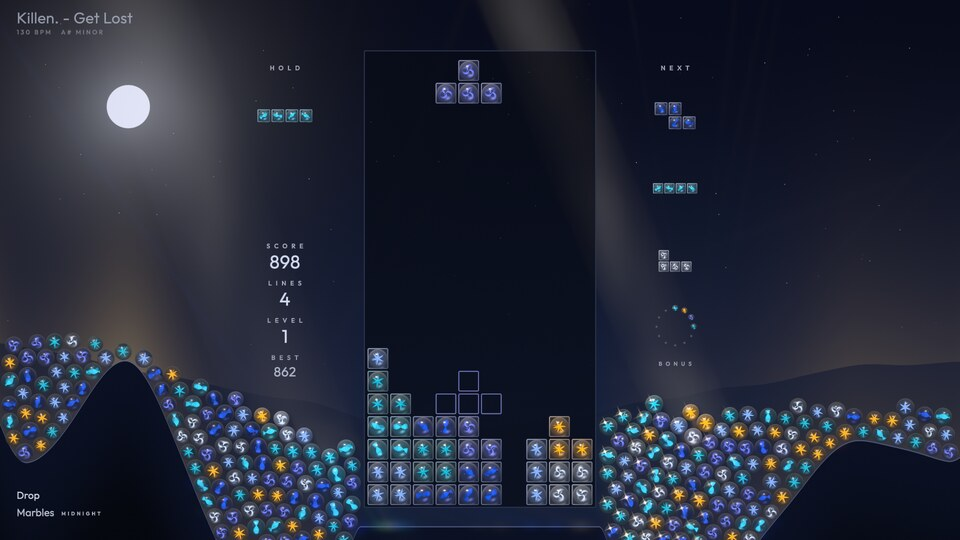
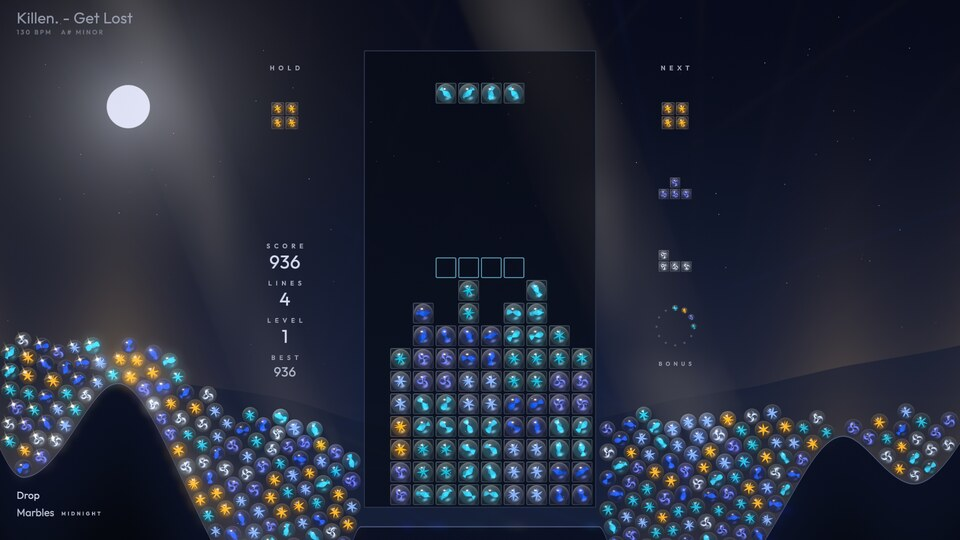
MARBLES: night variants only (MIDNIGHT, SEA GLASS, OBSIDIAN: the light reads there; DUSK, PORCELAIN, NOON dropped); fainter glass boxes, the hairline barely there
Claude-Session: https://claude.ai/code/session_01DBPtRFs6M8Q4o53Qj6BCRE

diff --git a/src/universes/marbles/marbles.cpp b/src/universes/marbles/marbles.cpp
@@ -105,16 +105,6 @@ const VariantDef VARIANTS[] = {
      0xdfe6ff, 0xffd27a, 0xffe6b0, 0x040818, 0xe8ecff,
      {0x62c8e8, 0xf0b54a, 0x7a86f0, 0x3fa8c0, 0x2f55c8, 0xcfdcf5, 0x8fb0f0},
      0.35f, 0.16f, 0.84f, -15.5f, 7.6f, 0.95f, 1.f, 1.f, 0.f, 1.f},
-    // Dusk: a plum sky warming to apricot over aubergine hills, a low sun; the drop's light is rose gold.
-    {"DUSK", 0x241a40, 0xd08468, 0x8a5e70, 0x5e4262, 0x26182c, 0x120a16, 0xffb08a, 0x1a1224, 0x5a4060, 0xf0c0b0,
-     0xfff0e6, 0xffc88a, 0xffd8b8, 0x120e30, 0xffe2b0,
-     {0xe8a07a, 0xf6c66a, 0xc77a9a, 0xf0c8a0, 0xb8506a, 0x8a5a9a, 0x4fb8b0},
-     0.30f, 0.15f, 0.80f, 15.5f, -1.2f, 1.7f, 1.f, 0.f, 0.f, 1.f},
-    // Porcelain: a cool white studio sky over pale grey hills, saturated marbles; the drop's light is white.
-    {"PORCELAIN", 0xdfe3e8, 0xf4f5f6, 0xe4e7eb, 0xd2d8df, 0xb4bcc8, 0x949eac, 0xffffff, 0xf7f8fa, 0xc4cad2, 0xffffff,
-     0x262c34, 0x1f4fd0, 0xffffff, 0x1a2236, 0xffffff,
-     {0x5aa0e0, 0x1f3f9a, 0x6a5ab8, 0x3a8a9a, 0xc8323a, 0x2a62c8, 0x8aa0b8},
-     0.42f, 0.42f, 0.86f, 0.f, 0.f, 0.f, 0.f, 0.f, 1.f, 0.55f},
     // Sea glass: a misty teal night, a pale moon in the fog, pastel sea-glass marbles; the drop's light is cyan white.
     {"SEA GLASS", 0x0a1e24, 0x2a5056, 0x355a60, 0x1a363c, 0x0a1a1e, 0x040c0e, 0x7ac0c0, 0x08161a, 0x3a5a5e, 0xbfe8e8,
      0xe0f4f2, 0xa8fff0, 0xd8fff8, 0x061418, 0xd8f0f0,
@@ -125,11 +115,6 @@ const VariantDef VARIANTS[] = {
      0xe8e8ee, 0xffffff, 0xffffff, 0x04060e, 0xffffff,
      {0xd8e4f0, 0xff8a2a, 0x9a9aa8, 0x6a7a88, 0xff3a2a, 0x8a9ab0, 0xffc84a},
      0.25f, 0.08f, 0.88f, 0.f, 0.f, 0.f, 0.f, 0.25f, 0.f, 1.f},
-    // Noon: a blue sky over slate hills, a white sun; the drop's light is white.
-    {"NOON", 0x86aed6, 0xe2ebf2, 0xc4d4e2, 0xa4b8cc, 0x687c92, 0x48586a, 0xf4f8fc, 0xf0f4f8, 0xb0bccb, 0xffffff,
-     0x22303e, 0xe85a2a, 0xffffff, 0x182238, 0xfffaf0,
-     {0x2ab0b8, 0xe0a83a, 0xa0603a, 0xc8904a, 0xb8502a, 0x8a6a4a, 0xe8d0a0},
-     0.42f, 0.42f, 0.84f, -16.f, 7.4f, 1.0f, 1.f, 0.f, 1.f, 0.6f},
 };
 constexpr int VARIANT_COUNT = (int)(sizeof(VARIANTS) / sizeof(VARIANTS[0]));
 
@@ -395,16 +380,18 @@ bool MarblesUniverse::inKeepOut(vec2 p, float r) const {
 // Song, level
 // =====================================================================================================
 
-// The place from the song: bright major songs by day (PORCELAIN, NOON), warm or mild ones at dusk or in the sea
-// glass mist, minor songs at night (MIDNIGHT, OBSIDIAN, SEA GLASS); the key's hue picks between them.
+// The night from the song (only dark skies: the light is what the marbles live by): dark minor songs in OBSIDIAN or
+// MIDNIGHT, brighter ones in the SEA GLASS mist or MIDNIGHT, and the same for major songs the other way round; the
+// key's hue picks between them.
 int MarblesUniverse::pickVariant(const SongLook& t) const {
     float h = std::fmod(t.hue / TAU, 1.f);
     if (h < 0) h += 1.f;
     int v;
+    // 0 MIDNIGHT, 1 SEA GLASS, 2 OBSIDIAN
     if (!t.hasSong) v = (int)(h * VARIANT_COUNT) % VARIANT_COUNT;
-    else if (t.minor) v = t.brightness < 0.42f ? (h < 0.5f ? 4 : 0) : (h < 0.5f ? 3 : 0);
-    else v = t.brightness > 0.6f ? (h < 0.5f ? 2 : 5) : (h < 0.5f ? 1 : 3);
-    if (v == t.avoidVariant) v = (v + 1 + (int)(t.seed % 3)) % VARIANT_COUNT;
+    else if (t.minor) v = t.brightness < 0.42f ? (h < 0.5f ? 2 : 0) : (h < 0.5f ? 1 : 0);
+    else v = t.brightness > 0.6f ? (h < 0.5f ? 1 : 0) : (h < 0.5f ? 0 : 2);
+    if (v == t.avoidVariant) v = (v + 1 + (int)(t.seed % 2)) % VARIANT_COUNT;
     return v;
 }
 

diff --git a/src/universes/marbles/shaders.hpp b/src/universes/marbles/shaders.hpp
@@ -265,7 +265,7 @@ void main() {
         // a frosted tile tinted by its marble
         vec3 base = mix(uTileCol, c0, uTileTint);
         base *= 1.0 + 0.12 * (p.y / h);
-        float ta = uTileAlpha * 0.3;
+        float ta = uTileAlpha * 0.15;
         // what the marble sees behind it: the tile over the pane over the world
         vec3 behind = mix(bgAt(v0.xy), uPanel.rgb, uPanel.a);
         tileEnv = mix(behind, base, clamp(ta * 2.0, 0.0, 1.0)) * 0.95 + 0.015;
@@ -273,16 +273,16 @@ void main() {
         vec2 sp = (p - mo - ld * 0.11) / R;
         float sh = exp(-dot(sp, sp) * 1.6);
         base *= 1.0 - 0.5 * sh * (1.0 - uLightGround * 0.3);
-        ta = mix(ta, max(ta, 0.3), sh * 0.5);
+        ta = mix(ta, max(ta, 0.15), sh * 0.5);
         vec2 cq = (p - mo - ld * 0.35) / R;
         float caus = exp(-dot(cq, cq) * 6.0);
         base += (c0 * 0.8 + 0.1) * caus * (0.35 + 0.9 * dot(Lc, vec3(0.3, 0.5, 0.2)));
-        ta = max(ta, caus * 0.3);
+        ta = max(ta, caus * 0.15);
         // a hairline lit along the top left of the tile's edge
-        float rim = smoothstep(px * 1.8, px * 0.2, abs(d + px * 1.1));
+        float rim = smoothstep(px * 1.3, px * 0.15, abs(d + px * 1.0));
         float lit = clamp(dot(normalize(p + 1e-4), vec2(-0.7071, 0.7071)) * 0.5 + 0.5, 0.0, 1.0);
         base = mix(base, mix(mix(c0, vec3(1.0), 0.6), c0 * 0.75, uLightGround), rim * (0.25 + 0.5 * mix(lit, 1.0 - lit * 0.5, uLightGround)));
-        ta = max(ta, rim * (0.25 + 0.3 * lit));
+        ta = max(ta, rim * (0.09 + 0.11 * lit));
         // the bridge: plain squares of ink
         base = mix(base, uBridgeInk, bb);
         ta = mix(ta, 0.95, bb);

diff --git a/docs/universes.md b/docs/universes.md
@@ -116,7 +116,7 @@ Fluorescent paint splashed on a dark wall. The background is a matte, textured w
 
 ![MARBLES](universes/marbles.jpg)
 
-Glass marbles in square tiles, thrown out into a landscape where they pile up. A still sky (a small moon or a low sun on some variants, faint stars at night) over one plain silhouette of land, its top edge caught by a hairline of light, a far ridge half lost in the haze behind it, and lots of empty air. The landscape is new for every song, from its seed: on each side of the well a deep, wide basin (its floor below the bottom of the picture, its inner side the well's glass) able to hold a couple of hundred marbles, closed by a ridge, then a shallower outer hollow rising to the edge of the picture (one side tall, the other low, never mirrored), all in smooth, plain curves. The well is one even pane of smoked (or frosted, by day) glass with a hairline edge. Each cell of a piece is a big glass marble (nearly the cell's width) held prisoner in a faint glass box: a hairline edge and a breath of frost, so that the marble is the subject and the pieces read by their marbles' colors. The marbles are clear glass: through each one the world behind it (the sky and the land, drawn apart for this each frame) is seen upside down and shrunk, as through a lens, tinted a little and darker toward the rim; inside, magnified and in two layers for depth, its core, one per piece type: a twisted ribbon, a cat's eye of three curved vanes or a swirl of strands; the sky caught at the edge, a few tiny bubbles. They are lit by real light: one or two slow beams fall from the moon's or the sun's side through a faint haze, drifting over the basins over a minute or more, and their rays are traced in 2D on the CPU through the heaps (each marble a glass ball: refracted in and out, a Fresnel reflection off its surface, the light tinted by its glass on the way, focused like a lens onto what lies behind it, pooling on the land where it gets through; the cost is bounded: 30 rays a beam, a capped number of segments, the hashed grid and the land's heightfield). Each marble is lit by the light that actually crosses it, smoothed: its glass and core glow in their tint, a bright focused spot inside on the far side, the rim facing the light catching it, the source's highlight where its surface faces the light; marbles in the shadow of a heap stay dark glass; the marbles in the well take the key light from the same side. The light stays secondary: faint shafts, soft-shouldered, never blinding; the ghost is the tiles' outline. Six variants, each with its own sky, land and a palette of three or four related hues and an accent for its seven pieces, from the key, mode and brightness: MIDNIGHT (ink-blue hills under a small moon; blues, cyans and moon white, a gold accent), DUSK (a plum sky warming to apricot, a low sun; peach, amber, rose and plum, a teal accent), PORCELAIN (a cool white sky over pale grey hills; blues and grey, a red accent), SEA GLASS (a misty teal night; pastel aquas and greens, a coral accent), OBSIDIAN (black on black, the hills told by their rim alone; greys and fire) and NOON (a blue sky over slate hills; ochre, rust and sand, a teal accent). The colors are soft through the song, a little richer in a chorus, and ramp up to rich, saturated, glowing ones for a drop, easing back over a few seconds after it (`--universe "marbles:sea glass"`). A cleared row pops: its tiles swell a little and vanish in a moment and each marble is thrown up out of the well (in front of the stack while it crosses it, shrinking into the distance), arcs over to its side of the landscape, lands, rolls down into the hollows and stays there, stacking with the others into heaps over the song (2D circle physics against the land's heightfield: a landing loses most of the throw's speed; a marble perched on a slope steeper than real marbles hold (about 30 degrees), or balanced on a single marble, rolls on down until it sits in a hollow; a marble that rests falls asleep and from then on is part of the ground, so a new marble rolls over a heap and settles without ever moving it: no jitter, no avalanche; the hollows fill first; never in the well, never where the HUD's text is; at most about 340, the oldest on the surface of the heaps fading away, never one under others; at the real speed, even in slow motion). A song starts with an empty landscape (only a review shot's filled board pours a late song's heaps into it). Calm is still; mid sets a marble on top of a heap rolling now and then and lets one catch the light on the bars; a chorus brings a soft glow up from the land's line and a few marbles glint on the kicks. A drop sends waves of light flowing through the heaps every two beats (a stronger, double band on the bars), each drop its own shape: out from the well, in from the edges, sweeping across, rising from the hollows, rings spreading from a heap, or diagonal bands; the fronts are light travelling through the heaps (each marble lit from the side the front comes from, its highlight and focused spot turning with it), their cores glowing first, glints sparkling along it; the beams turn whiter and each marble splits them into a small spectrum, colored fans and pools behind the heaps; and on the kicks a few lit marbles on top of the heaps hop; its first downbeat sends a triple wave and one swell of the land's glow that settles over seconds (the light of the scene never pulses). A lock settles the piece's marbles in their tiles; a hard drop jolts them, the jolt carries a little into the tiles under it and the glass of the bottom marbles flashes. A Tetris sends a wave of light out from the well through every heap; slow motion is night (the sky deepens, stars come out, the heaps glow softly like lanterns); game over throws every marble out of its tile, row by row from the top; it leaves and enters with the world fading to the bridge, the stack in plain squares of ink. The bonus gauge is a ring of twelve small marbles, one more for each cleared line, a light running around it once it is full. Its HUD fonts are Outfit Light and Outfit Medium (SIL Open Font License, `src/universes/marbles/OFL-Outfit.txt`).
+Glass marbles in square tiles, thrown out into a landscape where they pile up. A still night sky (a small moon on some variants, faint stars) over one plain silhouette of land, its top edge caught by a hairline of light, a far ridge half lost in the haze behind it, and lots of empty air. The landscape is new for every song, from its seed: on each side of the well a deep, wide basin (its floor below the bottom of the picture, its inner side the well's glass) able to hold a couple of hundred marbles, closed by a ridge, then a shallower outer hollow rising to the edge of the picture (one side tall, the other low, never mirrored), all in smooth, plain curves. The well is one even pane of smoked glass with a hairline edge. Each cell of a piece is a big glass marble (nearly the cell's width) held prisoner in a faint glass box: a hairline edge and a breath of frost, so that the marble is the subject and the pieces read by their marbles' colors. The marbles are clear glass: through each one the world behind it (the sky and the land, drawn apart for this each frame) is seen upside down and shrunk, as through a lens, tinted a little and darker toward the rim; inside, magnified and in two layers for depth, its core, one per piece type: a twisted ribbon, a cat's eye of three curved vanes or a swirl of strands; the sky caught at the edge, a few tiny bubbles. They are lit by real light: one or two slow beams fall from the moon's or the sun's side through a faint haze, drifting over the basins over a minute or more, and their rays are traced in 2D on the CPU through the heaps (each marble a glass ball: refracted in and out, a Fresnel reflection off its surface, the light tinted by its glass on the way, focused like a lens onto what lies behind it, pooling on the land where it gets through; the cost is bounded: 30 rays a beam, a capped number of segments, the hashed grid and the land's heightfield). Each marble is lit by the light that actually crosses it, smoothed: its glass and core glow in their tint, a bright focused spot inside on the far side, the rim facing the light catching it, the source's highlight where its surface faces the light; marbles in the shadow of a heap stay dark glass; the marbles in the well take the key light from the same side. The light stays secondary: faint shafts, soft-shouldered, never blinding; the ghost is the tiles' outline. Three variants, all night skies (the light is what the marbles live by; light skies were dropped, the beams did not read on them), each with its own sky, land and a palette of three or four related hues and an accent for its seven pieces, from the key, mode and brightness: MIDNIGHT (ink-blue hills under a small moon; blues, cyans and moon white, a gold accent), SEA GLASS (a misty teal night under a pale moon; pastel aquas and greens, a coral accent) and OBSIDIAN (black on black, the hills told by their rim alone; greys and fire). The colors are soft through the song, a little richer in a chorus, and ramp up to rich, saturated, glowing ones for a drop, easing back over a few seconds after it (`--universe "marbles:sea glass"`). A cleared row pops: its tiles swell a little and vanish in a moment and each marble is thrown up out of the well (in front of the stack while it crosses it, shrinking into the distance), arcs over to its side of the landscape, lands, rolls down into the hollows and stays there, stacking with the others into heaps over the song (2D circle physics against the land's heightfield: a landing loses most of the throw's speed; a marble perched on a slope steeper than real marbles hold (about 30 degrees), or balanced on a single marble, rolls on down until it sits in a hollow; a marble that rests falls asleep and from then on is part of the ground, so a new marble rolls over a heap and settles without ever moving it: no jitter, no avalanche; the hollows fill first; never in the well, never where the HUD's text is; at most about 340, the oldest on the surface of the heaps fading away, never one under others; at the real speed, even in slow motion). A song starts with an empty landscape (only a review shot's filled board pours a late song's heaps into it). Calm is still; mid sets a marble on top of a heap rolling now and then and lets one catch the light on the bars; a chorus brings a soft glow up from the land's line and a few marbles glint on the kicks. A drop sends waves of light flowing through the heaps every two beats (a stronger, double band on the bars), each drop its own shape: out from the well, in from the edges, sweeping across, rising from the hollows, rings spreading from a heap, or diagonal bands; the fronts are light travelling through the heaps (each marble lit from the side the front comes from, its highlight and focused spot turning with it), their cores glowing first, glints sparkling along it; the beams turn whiter and each marble splits them into a small spectrum, colored fans and pools behind the heaps; and on the kicks a few lit marbles on top of the heaps hop; its first downbeat sends a triple wave and one swell of the land's glow that settles over seconds (the light of the scene never pulses). A lock settles the piece's marbles in their tiles; a hard drop jolts them, the jolt carries a little into the tiles under it and the glass of the bottom marbles flashes. A Tetris sends a wave of light out from the well through every heap; slow motion is night (the sky deepens, stars come out, the heaps glow softly like lanterns); game over throws every marble out of its tile, row by row from the top; it leaves and enters with the world fading to the bridge, the stack in plain squares of ink. The bonus gauge is a ring of twelve small marbles, one more for each cleared line, a light running around it once it is full. Its HUD fonts are Outfit Light and Outfit Medium (SIL Open Font License, `src/universes/marbles/OFL-Outfit.txt`).
 
 ## PRISM
 
@@ -175,7 +175,7 @@ others are ideas waiting to be built. To build one, see [Adding a universe](addi
 | 14 | LASER SHOW | Every piece projected by its own laser in a haze | More projectors on as the song rises; drops turn pieces and lasers into a two-color display; cleared parts blink off | ✅ |
 | 15 | GARDEN | Clods of earth growing grass and flowers on a wide ground line, a plain sky | The ground line is dry in breaks, green at mid, lush in a chorus, and blooms across its whole length on a drop; flowers grow slowly on the stack's open tops; clears crumble into soil dust | ✅ |
 | 16 | SEA | A sea under a sky in three cut-paper layers, boats sailing across, life in its depths; glass cubes of water | Calm = a glassy sea, mid = a swell, chorus = whitecaps; a drop raises a storm (big waves, spray, rain, lightning in the clouds); cleared cubes are thrown onto the sand, crack and jet their water out, raising the sea from an empty sandy bed; the deeper it gets the darker its depths, the more life in it (fish, jellyfish, deep glowing life) and the bigger the boats | ✅ |
-| 17 | MARBLES | Square glass tiles each holding a clear glass marble (refraction, ribbon/cat's-eye/swirl cores, bubbles), a palette per variant; deep basins from the song's seed | Cleared tiles pop and their marbles are thrown out to pile up in the basins over the song, heaps that never shake; colors soft, rich in a drop; a drop sends waves of light flowing through the heaps every two beats, each drop its own shape | ✅ |
+| 17 | MARBLES | Big clear glass marbles (refraction, ribbon/cat's-eye/swirl cores, bubbles) prisoners of faint glass boxes, a palette per variant, night skies only; deep basins from the song's seed; slow beams of light traced through the heaps | Cleared tiles pop and their marbles are thrown out to pile up in the basins over the song, heaps that never shake; colors soft, rich in a drop; a drop sends waves of light flowing through the heaps every two beats, each drop its own shape | ✅ |
 | 18 | PRISM | Glass cubes in the dark, slow beams of light through haze | Beams drift across the well and refract, reflect and pipe through the glass; the light the cubes receive lights them; a drop disperses every beam into rainbow fans; clears shatter into spectral sparks | ✅ |
 | 19 | OP ART | Black and white Bridget Riley stripes and moirés, calm and never flickering | The stripe field bends around the stack; beats ripple it gently; peak makes the whole field undulate | |
 | 20 | SHADOW PLAY | Silhouettes behind a backlit paper screen, warm lamp | Puppets dance on the beat; the lamp flickers; peak brings more puppets | |
